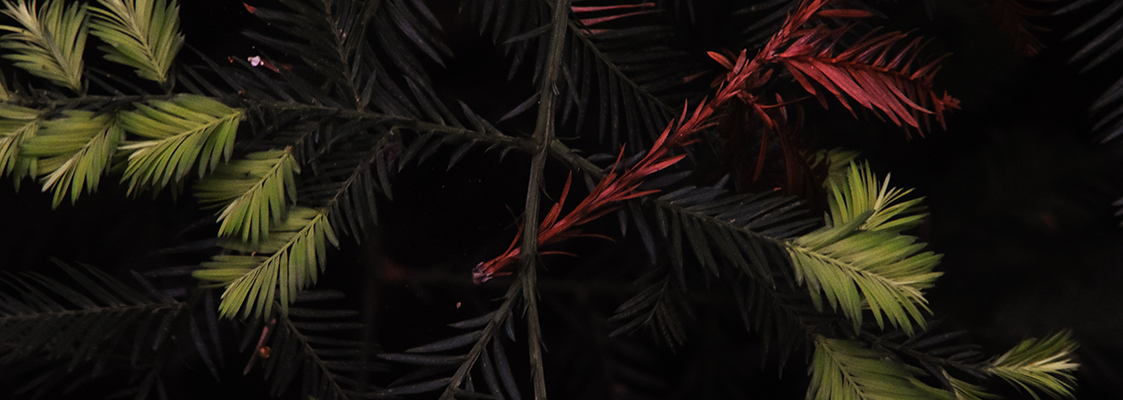
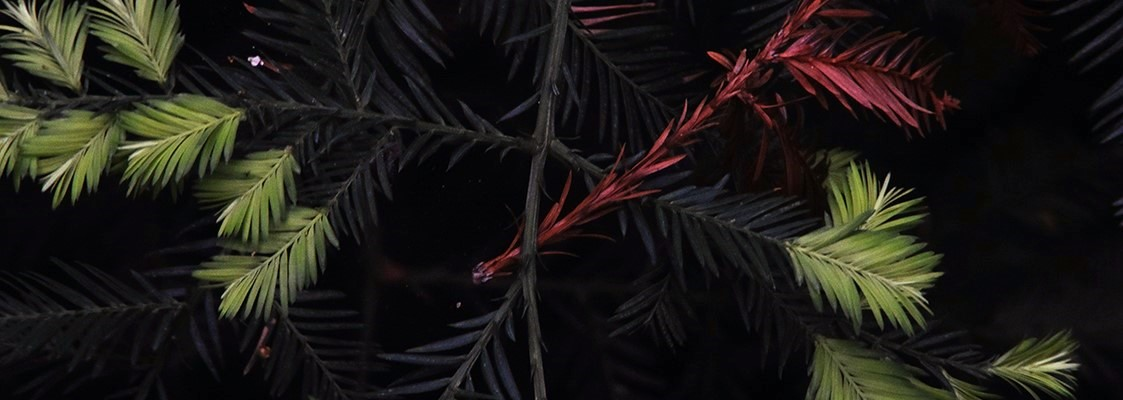
Initial commit

diff --git a/indexstyle.css b/indexstyle.css
@@ -1,5 +1,5 @@
 :root {
-    --bg: #222222;
+    --bg: #1f2120;
     --code-bg: #111;
     --notice1-bg: #653;
     --notice2-bg: #ede3e2;
@@ -473,7 +473,7 @@
     color: #c2c2c2;
     position: relative;
     left: 3;
-    top: -7.57;
+    top: -7.6px;
     }
     /* Styles for the dropdown menu */
     .submenu {

diff --git a/camerastyle.css b/camerastyle.css
@@ -1,5 +1,5 @@
 :root {
-    --bg: #222222;
+    --bg: #1f2120;
     --code-bg: #111;
     --notice1-bg: #653;
     --notice2-bg: #ede3e2;

diff --git a/photostyle.css b/photostyle.css
@@ -1,5 +1,5 @@
 :root {
-    --bg: #222222;
+    --bg: #1f2120;
     --code-bg: #111;
     --notice1-bg: #653;
     --notice2-bg: #ede3e2;
